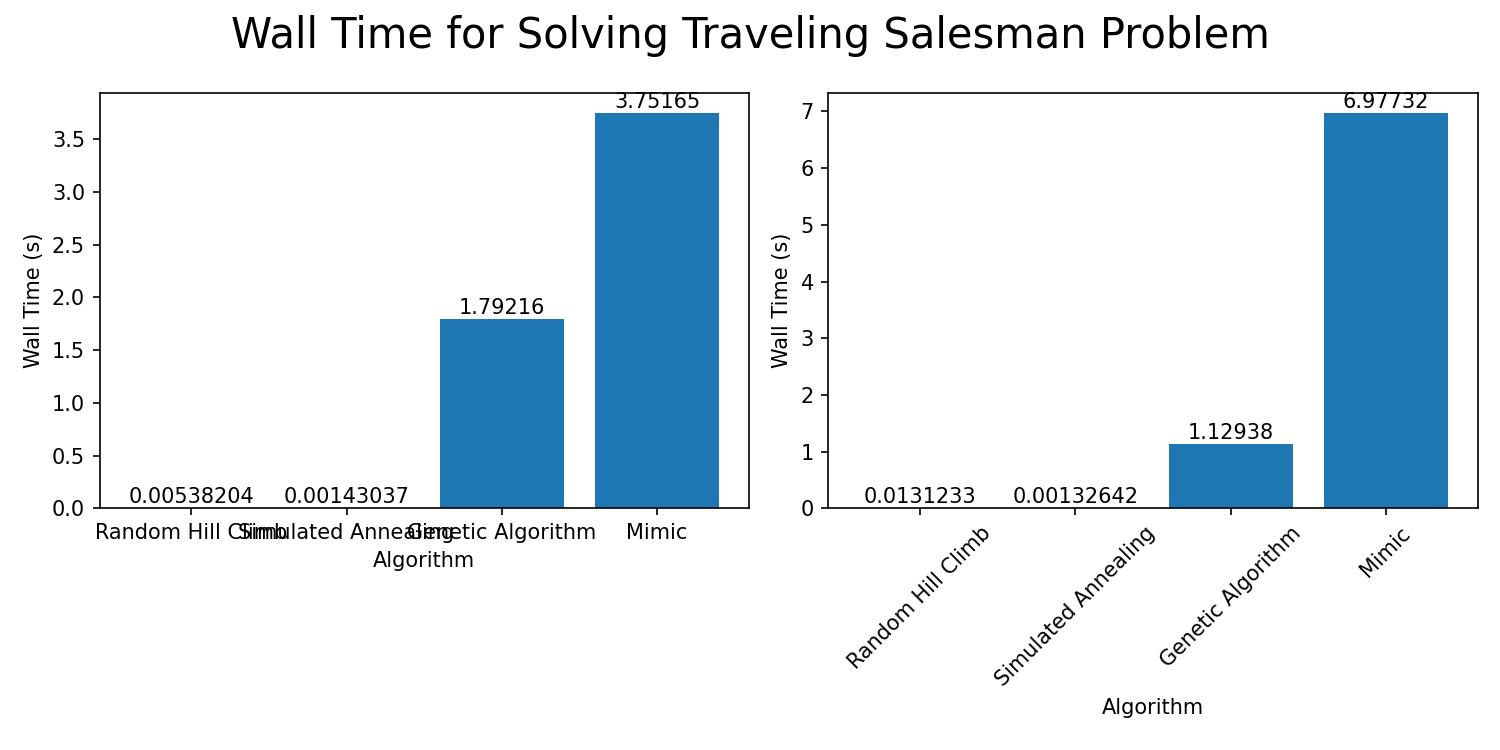
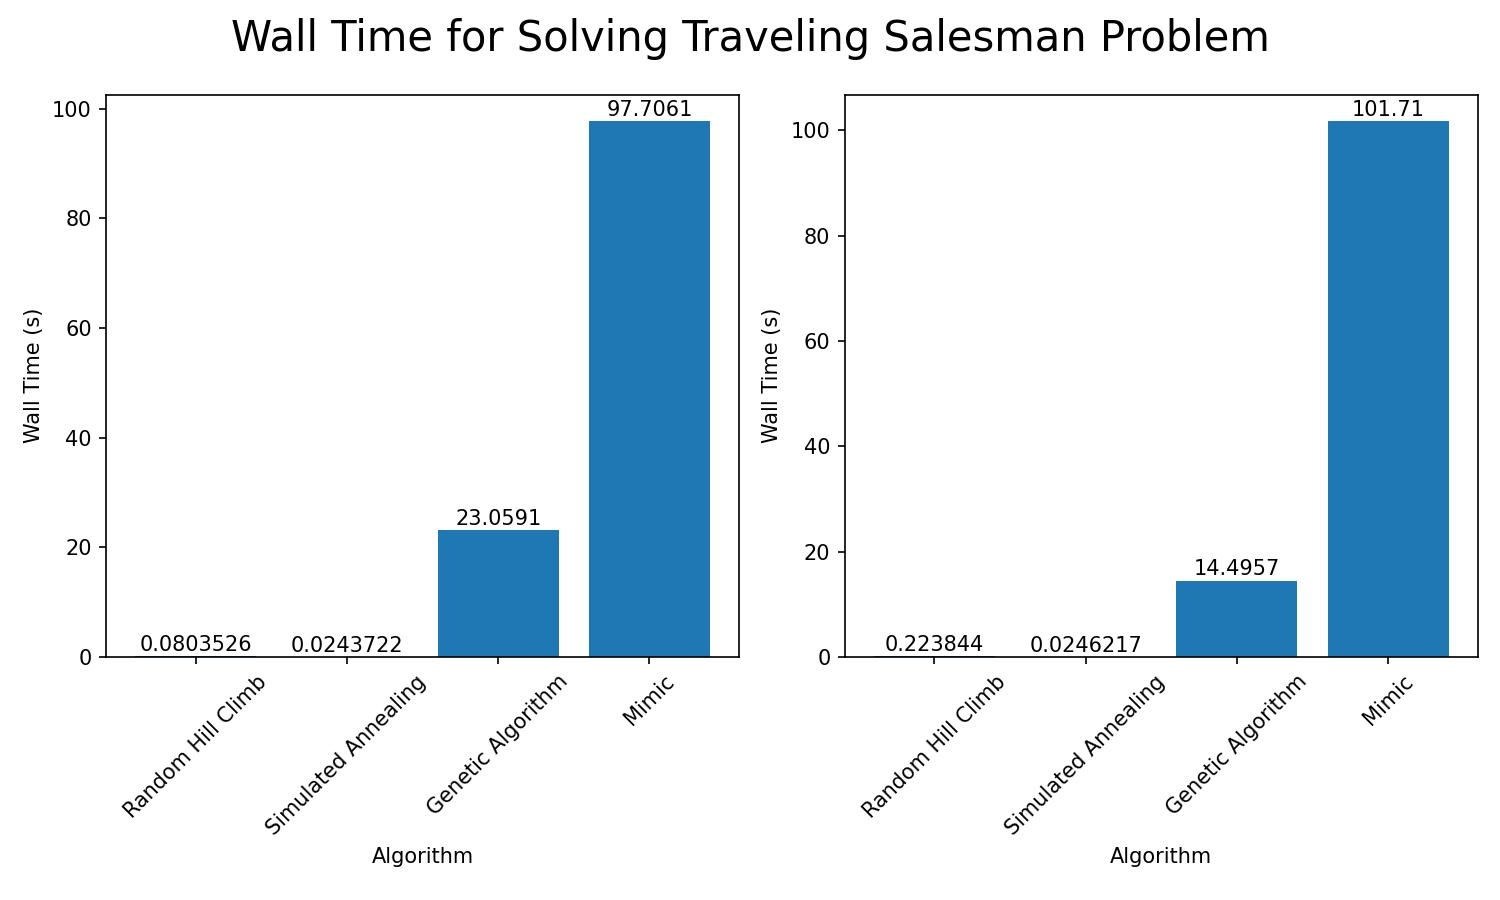
update graphs

diff --git a/randomized_optimization/src/main.py b/randomized_optimization/src/main.py
@@ -1,26 +1,18 @@
 import time
+from collections import defaultdict
 
 import matplotlib.pyplot as plt
 from sklearn.metrics import accuracy_score
 from sklearn.model_selection import train_test_split
-from src.config.config import (
-    ALGORITHM_MAPPING,
-    NN_OPT_ALGORITHMS,
-    PROBLEM_PARAMS_MAPPING,
-    RANDOM_SEED,
-)
+from src.config.config import (ALGORITHM_MAPPING, NN_OPT_ALGORITHMS,
+                               PROBLEM_PARAMS_MAPPING, RANDOM_SEED)
 from src.data.nba_dataset import NBADataset
-from src.models.discrete_problems import (
-    knapsack_problem,
-    multi_queens_problem,
-    solver,
-    traveling_salesman_problem,
-)
-from src.models.neural_network import neural_network
-from src.visualization.visualize import (
-    plot_discrete_problem_fitness_curves,
-    plot_walltime_chart,
-)
+from src.models.discrete_problems import (knapsack_problem,
+                                          multi_queens_problem, solver,
+                                          traveling_salesman_problem)
+from src.models.neural_network import feature_transformer, neural_network
+from src.visualization.visualize import (plot_discrete_problem_fitness_curves,
+                                         plot_walltime_chart)
 
 
 def discrete_problem_analysis(problem_name):
@@ -64,7 +56,7 @@ def discrete_problem_analysis(problem_name):
     plt.savefig(f"./reports/figures/{problem_name}_fitness_curves.jpg", dpi=150)
 
     # plot the wall time the walltime bar chart
-    _, (ax1, ax2) = plt.subplots(1, 2, figsize=(10, 5))
+    _, (ax1, ax2) = plt.subplots(1, 2, figsize=(10, 6))
     plot_walltime_chart(walltime_map_default, ax1)
     plot_walltime_chart(walltime_map_tuned, ax2)
     plt.suptitle(f"Wall Time for Solving {problem_name}", fontsize=20)
@@ -80,15 +72,18 @@ def neural_network_analysis():
     """
     walltime_map = {}
     fitness_score_map = {}
-    accuracy_score_map = {}
+    accuracy_score_map = defaultdict(dict)
 
     # get training and test sets
     nba_dataset = NBADataset()
     X, y = nba_dataset.build_training_test_set()
-
     X_train, X_test, y_train, y_test = train_test_split(
         X, y, test_size=0.2, random_state=RANDOM_SEED
     )
+    # preprocessing
+    features = feature_transformer()
+    X_train = features.fit_transform(X_train)
+    X_test = features.transform(X_test)
     # store fitness curves and wall times for the 4 algorithms
     for algorithm in NN_OPT_ALGORITHMS:
         start_time = time.perf_counter()
@@ -99,9 +94,16 @@ def neural_network_analysis():
         fitness_score_map[algorithm] = nn.fitness_curve
         walltime_map[algorithm] = end_time - start_time
         # get the accuracy score on test
-        y_pred = nn.predict(X_test)
-        accuracy_score_map[algorithm] = accuracy_score(y_test, y_pred)
+        y_pred_train = nn.predict(X_train)
+        y_pred_test = nn.predict(X_test)
+        accuracy_score_map[algorithm]["train"] = accuracy_score(y_train, y_pred_train)
+        accuracy_score_map[algorithm]["test"] = accuracy_score(y_test, y_pred_test)
+
+    breakpoint()
 
 
 if __name__ == "__main__":
     discrete_problem_analysis("Traveling Salesman Problem")
+    discrete_problem_analysis("Knapsack Problem")
+    discrete_problem_analysis("N-Queens Problem")
+    neural_network_analysis()

diff --git a/randomized_optimization/src/config/config.py b/randomized_optimization/src/config/config.py
@@ -7,20 +7,24 @@ ALGORITHM_MAPPING = {
     "Mimic": mlrose.mimic,
 }
 ALGORITHM_HYPERPARAMS_DEFAULT_MAPPING = {  # type: ignore
-    "Random Hill Climb": dict(restarts=3, max_attempts=5000),
+    "Random Hill Climb": dict(restarts=3, max_attempts=500, max_iters=1000),
     "Simulated Annealing": dict(
-        schedule=mlrose.ExpDecay(exp_const=0.005), max_attempts=5000
+        schedule=mlrose.ExpDecay(exp_const=0.005), max_attempts=500, max_iters=1000
     ),
-    "Genetic Algorithm": dict(pop_size=500, mutation_prob=0.2, max_attempts=5000),
-    "Mimic": dict(pop_size=500, keep_pct=0.2, max_attempts=5000),
+    "Genetic Algorithm": dict(
+        pop_size=500, mutation_prob=0.2, max_attempts=500, max_iters=1000
+    ),
+    "Mimic": dict(pop_size=500, keep_pct=0.2, max_attempts=500, max_iters=1000),
 }
 ALGORITHM_HYPERPARAMS_TUNED_MAPPING = {  # type: ignore
-    "Random Hill Climb": dict(restarts=10, max_attempts=5000),
+    "Random Hill Climb": dict(restarts=10, max_attempts=500, max_iters=1000),
     "Simulated Annealing": dict(
-        schedule=mlrose.ExpDecay(exp_const=0.05), max_attempts=5000
+        schedule=mlrose.ExpDecay(exp_const=0.05), max_attempts=500, max_iters=1000
     ),
-    "Genetic Algorithm": dict(pop_size=500, mutation_prob=0.5, max_attempts=5000),
-    "Mimic": dict(pop_size=500, keep_pct=0.5, max_attempts=5000),
+    "Genetic Algorithm": dict(
+        pop_size=500, mutation_prob=0.5, max_attempts=500, max_iters=1000
+    ),
+    "Mimic": dict(pop_size=500, keep_pct=0.5, max_attempts=500, max_iters=1000),
 }
 
 PROBLEM_PARAMS_MAPPING = {

diff --git a/randomized_optimization/src/visualization/visualize.py b/randomized_optimization/src/visualization/visualize.py
@@ -10,7 +10,7 @@ def plot_discrete_problem_fitness_curves(fitness_score_map, axes):
 
     # plot fitness scores vs iterations for 4 different algorithms
     for i, (algorithm, fitness_vals) in enumerate(fitness_score_map.items()):
-        axes[i].plot(fitness_vals[:, 1], fitness_vals[:, 0])
+        axes[i].plot(fitness_vals[:, 0])
         axes[i].set_title(f"{algorithm}")
         axes[i].set_xlabel("Number of Iterations")
         axes[i].set_ylabel("Fitness")
@@ -54,7 +54,7 @@ def plot_walltime_chart(walltime_map, axes):
     # Create names on the axis and set title
     axes.set_xlabel("Algorithm")
     axes.set_ylabel("Wall Time (s)")
-    axes.xticks(rotation=45)
+    axes.tick_params(axis="x", rotation=45)
     axes.bar_label(bars, padding=0.5)
 
     return plt
